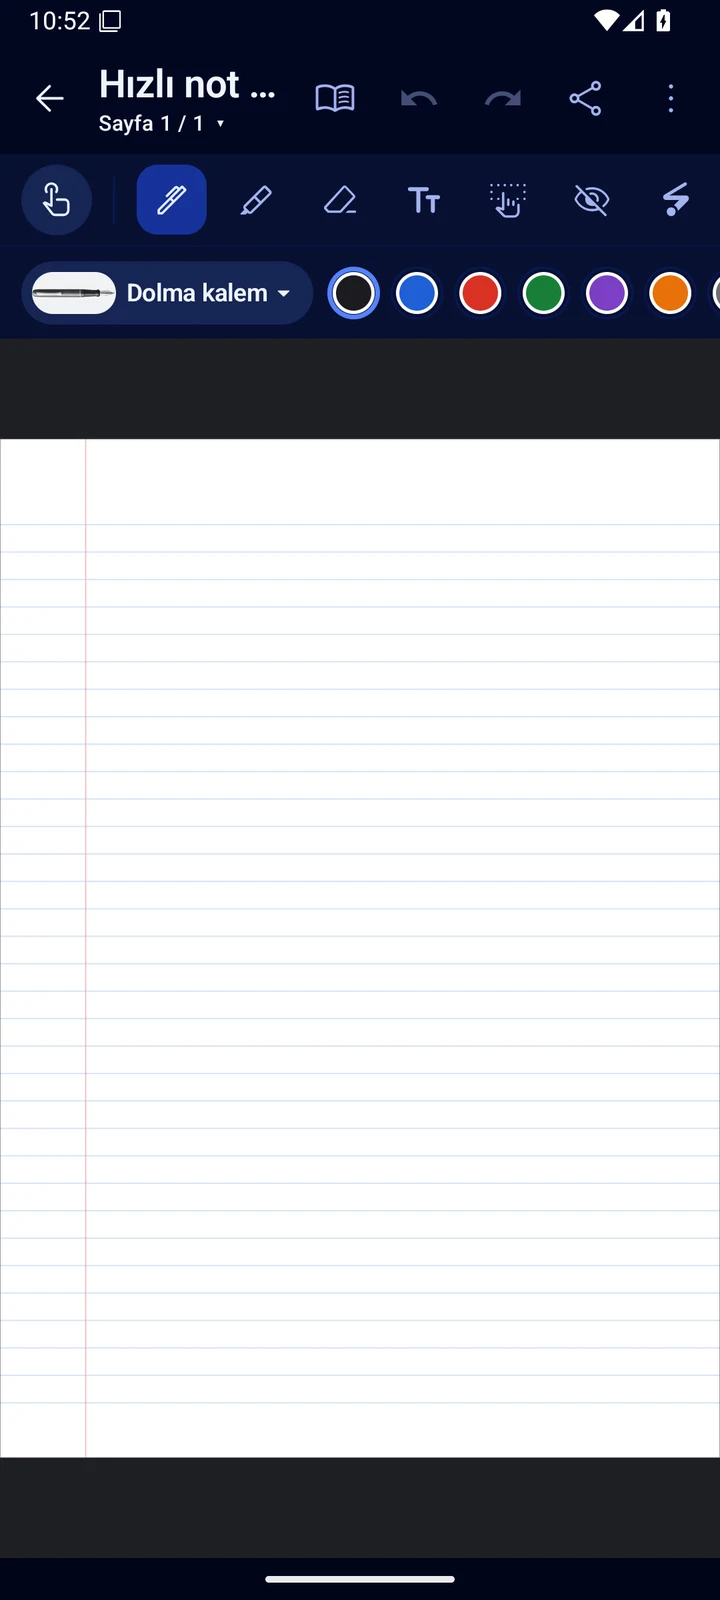
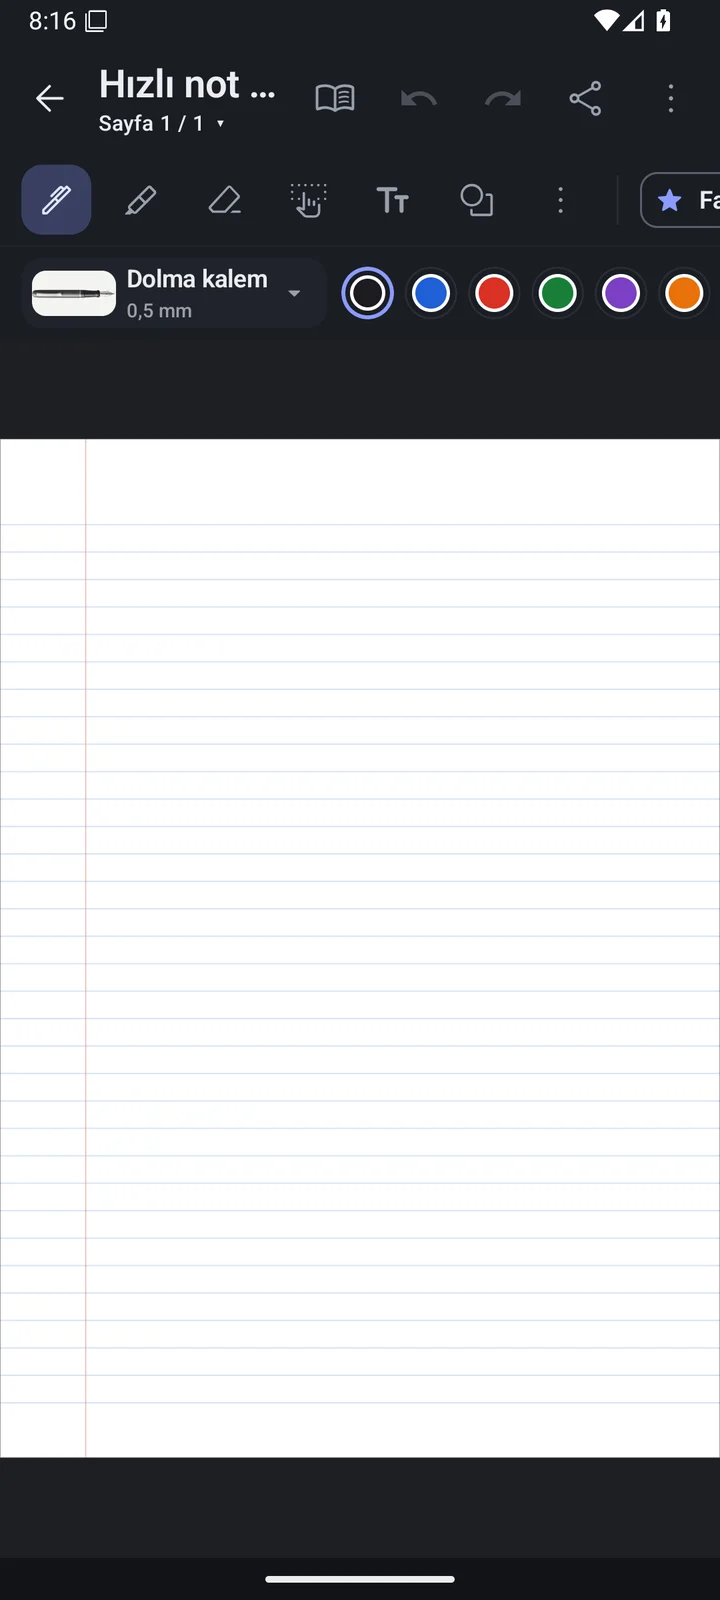
Sürüm 4.0: Yenilikler listesi, sürüm adı 4.0.N; site 4.0 ekran görüntüleri, test işaretleri kaldırıldı
Claude-Session: https://claude.ai/code/session_0112bPF4AJDG41dkAvYKYHDp

Changed region(s): [[0.0306, 0.0, 1.0, 0.2188], [0.0306, 0.0, 0.1833, 0.0312], [0.6722, 0.0312, 0.7333, 0.0938]]

diff --git a/docs/index.html b/docs/index.html
@@ -251,7 +251,7 @@
         <p class="feature__num">01</p>
         <h3>Kâğıt gibi yaz, PDF gibi sakla.</h3>
         <p>Ders PDF'lerini içe aktar ya da bir klasör bağla, üstüne basınca duyarlı kalemle yaz. Kalemin yoksa "Parmakla yaz"ı aç: tek parmak çizer, iki parmak kaydırır.</p>
-        <ul class="ticks"><li>14 kalem: dolma, jel, ince uç, keçeli, pastel, neon, noktalı, fırça, kaligrafi…; her kalem ayarını hatırlar</li><li>Yazma desteği el titremesini süzer; cetvel ve açıölçer</li><li>Çıkartmalar ve son kullanılan renkler</li><li>Katmanlar ve sonsuz tuval</li><li>Arkadaşının notlarını kendi belgene ayrı katman olarak birleştir</li><li>Kalem düğmesi: bas, kalem ile silgi arasında geç (Xiaomi Focus Pen, S Pen)</li><li>🧪 Hızlı kalem halkası: sayfada kalemle kıpırdatmadan basılı tut; kalem, fosforlu, silgi ve son renkler. Ayarlar → Not alma'dan kapatılır</li><li>Tablette iki belge yan yana: bir yanda ders PDF'i, öbür yanda defterin</li><li>🧪 Kayıtlı çalışma düzeni: belge ekranında ⋮ → "Çalışma düzenini kaydet"; belge + yan belge + dinleme kaydı, Bugün'de tek dokunuşla açılır</li><li>🧪 Not geçmişi: birkaç dakikada bir, sayfa başına 15 eski sürüm; belge ⋮ → Not geçmişi → Geri yükle (geri al ile vazgeç)</li><li>Fosforlu, silgi, lasso, şekil düzeltme, metin kutusu; notlu PDF olarak dışa aktar</li></ul>
+        <ul class="ticks"><li>14 kalem: dolma, jel, ince uç, keçeli, pastel, neon, noktalı, fırça, kaligrafi…; her kalem ayarını hatırlar</li><li>Yazma desteği el titremesini süzer; cetvel ve açıölçer</li><li>Çıkartmalar ve son kullanılan renkler</li><li>Katmanlar ve sonsuz tuval</li><li>Arkadaşının notlarını kendi belgene ayrı katman olarak birleştir</li><li>Kalem düğmesi: bas, kalem ile silgi arasında geç (Xiaomi Focus Pen, S Pen)</li><li>Hızlı kalem halkası: sayfada kalemle kıpırdatmadan basılı tut; kalem, fosforlu, silgi ve son renkler. Ayarlar → Not alma'dan kapatılır</li><li>Tablette iki belge yan yana: bir yanda ders PDF'i, öbür yanda defterin</li><li>Kayıtlı çalışma düzeni: belge ekranında ⋮ → "Çalışma düzenini kaydet"; belge + yan belge + dinleme kaydı, Bugün'de tek dokunuşla açılır</li><li>Not geçmişi: birkaç dakikada bir, sayfa başına 15 eski sürüm; belge ⋮ → Not geçmişi → Geri yükle (geri al ile vazgeç)</li><li>Fosforlu, silgi, lasso, şekil düzeltme, metin kutusu; notlu PDF olarak dışa aktar</li></ul>
       </div>
     </article>
 
@@ -262,7 +262,7 @@
         <p class="feature__num">02</p>
         <h3>Haftanın kaynakları, konu konu.</h3>
         <p>Grammar'dan Speaking'e bütün ders kaynakları konulara ve haftalara ayrılmış hâlde gelir. Yeni kaynak eklenince uygulama güncellemesi beklemeden listede görünür.</p>
-        <ul class="ticks"><li>Drive'a eklenen yeni hafta kendiliğinden gelir</li><li>PDF kaynağı tek dokunuşla kütüphaneye; haftanın hepsini birden indir, internetsiz aç</li><li>🧪 Bugün derste kartı: Bugün ekranında günün konuları ve PDF'leri (aç / indir / hepsini indir); ses kayıtları için Dinle</li><li>Konu ve ders ilerlemesi; asistanla ders özeti</li><li>Deneme sınavı: okulun sınav tarzında, denetlenmiş sorular</li><li>🧪 Deneme sınavı konu analizi: ders geneli testte her soru bir konuya bağlı; konu konu doğru/toplam, zayıf konu üstte. Konunun PDF'ini aç, o konudan alıştırma yap; puanlar konu haritasına yazılır</li><li>🧪 Kaynakta göster: ders metni varsa deneme soruları kısa kaynak alıntısıyla gelir; yanlış soruda PDF'te o cümlenin sayfasını aç</li><li>Alıştırma: önce cevapla, asistan değerlendirsin</li><li>Konu haritası: hangi konuda ne kadar hazırsın</li><li>Haftanın ve konunun özeti: asistan PDF'lerden tek sayfa çıkarır</li><li>Listening kayıtları uygulamada: hız, 5 sn geri sarma, dinlerken not; çalışma kâğıdını açınca ses sürer</li><li>🧪 Listening A–B bölüm tekrarı: A ve B'yi işaretle, bölüm tekrar tekrar çalsın; arada 0/2/4/8 sn bekleme</li><li>Word ve PowerPoint dosyaları başka uygulamada açılır, PDF olarak geri gelir</li><li>Çalış: deneme sınavı, alıştırma, yazı stüdyosu ve Speaking tek yerde</li><li>Sade arayüz: Bugün, Kütüphane, Çalış, Takvim</li></ul>
+        <ul class="ticks"><li>Drive'a eklenen yeni hafta kendiliğinden gelir</li><li>PDF kaynağı tek dokunuşla kütüphaneye; haftanın hepsini birden indir, internetsiz aç</li><li>Bugün derste kartı: Bugün ekranında günün konuları ve PDF'leri (aç / indir / hepsini indir); ses kayıtları için Dinle</li><li>Konu ve ders ilerlemesi; asistanla ders özeti</li><li>Deneme sınavı: okulun sınav tarzında, denetlenmiş sorular</li><li>Deneme sınavı konu analizi: ders geneli testte her soru bir konuya bağlı; konu konu doğru/toplam, zayıf konu üstte. Konunun PDF'ini aç, o konudan alıştırma yap; puanlar konu haritasına yazılır</li><li>Kaynakta göster: ders metni varsa deneme soruları kısa kaynak alıntısıyla gelir; yanlış soruda PDF'te o cümlenin sayfasını aç</li><li>Alıştırma: önce cevapla, asistan değerlendirsin</li><li>Konu haritası: hangi konuda ne kadar hazırsın</li><li>Haftanın ve konunun özeti: asistan PDF'lerden tek sayfa çıkarır</li><li>Listening kayıtları uygulamada: hız, 5 sn geri sarma, dinlerken not; çalışma kâğıdını açınca ses sürer</li><li>Listening A–B bölüm tekrarı: A ve B'yi işaretle, bölüm tekrar tekrar çalsın; arada 0/2/4/8 sn bekleme</li><li>Word ve PowerPoint dosyaları başka uygulamada açılır, PDF olarak geri gelir</li><li>Çalış: deneme sınavı, alıştırma, yazı stüdyosu ve Speaking tek yerde</li><li>Sade arayüz: Bugün, Kütüphane, Çalış, Takvim</li></ul>
       </div>
     </article>
 

diff --git a/site/index.html b/site/index.html
@@ -250,7 +250,7 @@
         <p class="feature__num">01</p>
         <h3>Kâğıt gibi yaz, PDF gibi sakla.</h3>
         <p>Ders PDF'lerini içe aktar ya da bir klasör bağla, üstüne basınca duyarlı kalemle yaz. Kalemin yoksa "Parmakla yaz"ı aç: tek parmak çizer, iki parmak kaydırır.</p>
-        <ul class="ticks"><li>14 kalem: dolma, jel, ince uç, keçeli, pastel, neon, noktalı, fırça, kaligrafi…; her kalem ayarını hatırlar</li><li>Yazma desteği el titremesini süzer; cetvel ve açıölçer</li><li>Çıkartmalar ve son kullanılan renkler</li><li>Katmanlar ve sonsuz tuval</li><li>Arkadaşının notlarını kendi belgene ayrı katman olarak birleştir</li><li>Kalem düğmesi: bas, kalem ile silgi arasında geç (Xiaomi Focus Pen, S Pen)</li><li>🧪 Hızlı kalem halkası: sayfada kalemle kıpırdatmadan basılı tut; kalem, fosforlu, silgi ve son renkler. Ayarlar → Not alma'dan kapatılır</li><li>Tablette iki belge yan yana: bir yanda ders PDF'i, öbür yanda defterin</li><li>🧪 Kayıtlı çalışma düzeni: belge ekranında ⋮ → "Çalışma düzenini kaydet"; belge + yan belge + dinleme kaydı, Bugün'de tek dokunuşla açılır</li><li>🧪 Not geçmişi: birkaç dakikada bir, sayfa başına 15 eski sürüm; belge ⋮ → Not geçmişi → Geri yükle (geri al ile vazgeç)</li><li>Fosforlu, silgi, lasso, şekil düzeltme, metin kutusu; notlu PDF olarak dışa aktar</li></ul>
+        <ul class="ticks"><li>14 kalem: dolma, jel, ince uç, keçeli, pastel, neon, noktalı, fırça, kaligrafi…; her kalem ayarını hatırlar</li><li>Yazma desteği el titremesini süzer; cetvel ve açıölçer</li><li>Çıkartmalar ve son kullanılan renkler</li><li>Katmanlar ve sonsuz tuval</li><li>Arkadaşının notlarını kendi belgene ayrı katman olarak birleştir</li><li>Kalem düğmesi: bas, kalem ile silgi arasında geç (Xiaomi Focus Pen, S Pen)</li><li>Hızlı kalem halkası: sayfada kalemle kıpırdatmadan basılı tut; kalem, fosforlu, silgi ve son renkler. Ayarlar → Not alma'dan kapatılır</li><li>Tablette iki belge yan yana: bir yanda ders PDF'i, öbür yanda defterin</li><li>Kayıtlı çalışma düzeni: belge ekranında ⋮ → "Çalışma düzenini kaydet"; belge + yan belge + dinleme kaydı, Bugün'de tek dokunuşla açılır</li><li>Not geçmişi: birkaç dakikada bir, sayfa başına 15 eski sürüm; belge ⋮ → Not geçmişi → Geri yükle (geri al ile vazgeç)</li><li>Fosforlu, silgi, lasso, şekil düzeltme, metin kutusu; notlu PDF olarak dışa aktar</li></ul>
       </div>
     </article>
 
@@ -261,7 +261,7 @@
         <p class="feature__num">02</p>
         <h3>Haftanın kaynakları, konu konu.</h3>
         <p>Grammar'dan Speaking'e bütün ders kaynakları konulara ve haftalara ayrılmış hâlde gelir. Yeni kaynak eklenince uygulama güncellemesi beklemeden listede görünür.</p>
-        <ul class="ticks"><li>Drive'a eklenen yeni hafta kendiliğinden gelir</li><li>PDF kaynağı tek dokunuşla kütüphaneye; haftanın hepsini birden indir, internetsiz aç</li><li>🧪 Bugün derste kartı: Bugün ekranında günün konuları ve PDF'leri (aç / indir / hepsini indir); ses kayıtları için Dinle</li><li>Konu ve ders ilerlemesi; asistanla ders özeti</li><li>Deneme sınavı: okulun sınav tarzında, denetlenmiş sorular</li><li>🧪 Deneme sınavı konu analizi: ders geneli testte her soru bir konuya bağlı; konu konu doğru/toplam, zayıf konu üstte. Konunun PDF'ini aç, o konudan alıştırma yap; puanlar konu haritasına yazılır</li><li>🧪 Kaynakta göster: ders metni varsa deneme soruları kısa kaynak alıntısıyla gelir; yanlış soruda PDF'te o cümlenin sayfasını aç</li><li>Alıştırma: önce cevapla, asistan değerlendirsin</li><li>Konu haritası: hangi konuda ne kadar hazırsın</li><li>Haftanın ve konunun özeti: asistan PDF'lerden tek sayfa çıkarır</li><li>Listening kayıtları uygulamada: hız, 5 sn geri sarma, dinlerken not; çalışma kâğıdını açınca ses sürer</li><li>🧪 Listening A–B bölüm tekrarı: A ve B'yi işaretle, bölüm tekrar tekrar çalsın; arada 0/2/4/8 sn bekleme</li><li>Word ve PowerPoint dosyaları başka uygulamada açılır, PDF olarak geri gelir</li><li>Çalış: deneme sınavı, alıştırma, yazı stüdyosu ve Speaking tek yerde</li><li>Sade arayüz: Bugün, Kütüphane, Çalış, Takvim</li></ul>
+        <ul class="ticks"><li>Drive'a eklenen yeni hafta kendiliğinden gelir</li><li>PDF kaynağı tek dokunuşla kütüphaneye; haftanın hepsini birden indir, internetsiz aç</li><li>Bugün derste kartı: Bugün ekranında günün konuları ve PDF'leri (aç / indir / hepsini indir); ses kayıtları için Dinle</li><li>Konu ve ders ilerlemesi; asistanla ders özeti</li><li>Deneme sınavı: okulun sınav tarzında, denetlenmiş sorular</li><li>Deneme sınavı konu analizi: ders geneli testte her soru bir konuya bağlı; konu konu doğru/toplam, zayıf konu üstte. Konunun PDF'ini aç, o konudan alıştırma yap; puanlar konu haritasına yazılır</li><li>Kaynakta göster: ders metni varsa deneme soruları kısa kaynak alıntısıyla gelir; yanlış soruda PDF'te o cümlenin sayfasını aç</li><li>Alıştırma: önce cevapla, asistan değerlendirsin</li><li>Konu haritası: hangi konuda ne kadar hazırsın</li><li>Haftanın ve konunun özeti: asistan PDF'lerden tek sayfa çıkarır</li><li>Listening kayıtları uygulamada: hız, 5 sn geri sarma, dinlerken not; çalışma kâğıdını açınca ses sürer</li><li>Listening A–B bölüm tekrarı: A ve B'yi işaretle, bölüm tekrar tekrar çalsın; arada 0/2/4/8 sn bekleme</li><li>Word ve PowerPoint dosyaları başka uygulamada açılır, PDF olarak geri gelir</li><li>Çalış: deneme sınavı, alıştırma, yazı stüdyosu ve Speaking tek yerde</li><li>Sade arayüz: Bugün, Kütüphane, Çalış, Takvim</li></ul>
       </div>
     </article>
 

diff --git a/app/src/main/java/com/sounote/app/ui/UpdateDialogs.kt b/app/src/main/java/com/sounote/app/ui/UpdateDialogs.kt
@@ -28,19 +28,15 @@ import com.sounote.app.data.Updates
 
 /** Son ana sürümle gelenler ("Yenilikler" penceresi; eski sürümden güncelleyen bir kez görür). */
 private val WHATS_NEW = listOf(
-    SouIcons.Palette to "Baştan sade tasarım: logodaki lacivert ve mavi-mor tonlar, emoji yerine simgeler.",
-    SouIcons.InkPen to "14 kalem: ince uç, keçeli, pastel, jel, neon, noktalı, geniş uç, mürekkep fırçası…; her kalem kendi ayarını hatırlar.",
-    SouIcons.Draw to "Yazma desteği: el titremesini süzer, çizgileri yumuşak ve bağlantılı yapar.",
-    SouIcons.Straighten to "Cetvel ve açıölçer: kenarına yakın çizgi kenara oturur.",
-    SouIcons.Style to "Yeni bilgi kartı ekranı: dokun çevir, sağa bildim, sola bilemedim.",
-    SouIcons.StarShine to "Asistanla ders özeti: dersin bütün PDF'lerinden özet, kelimeler, sorular.",
-    SouIcons.LibraryBooks to "Defter kapakları; haftalık plan, kelime defteri ve renkli Cornell şablonları.",
-    SouIcons.Widgets to "Yeni sınav widget'ı ve tablette iki sütunlu ana sayfa.",
-    SouIcons.Event to "Sınav öncesi plan ve deneme sınavı: asistan gün gün plan ve konulardan test hazırlar.",
-    SouIcons.Mood to "Çıkartmalar; renk paleti son kullandığın renkleri hatırlar.",
-    SouIcons.Layers to "Katmanlar ve sonsuz tuval.",
-    SouIcons.Mic to "Speaking pratiği: konuş, asistan puanlasın.",
-    SouIcons.AccountTree to "Konu haritası: hangi konuda ne kadar hazırsın.",
+    SouIcons.Palette to "Yeni sade arayüz ve yeni logo: dört sekme (Bugün, Kütüphane, Çalış, Takvim), açık ve koyu tema.",
+    SouIcons.Event to "Takvim: her sınavın türü simgesiyle (quiz, writing, speaking, sunum, listening, ödev).",
+    SouIcons.InkPen to "Yeni kalem menüsü ve hızlı menü: sayfaya basılı tut; araçlar, favoriler, gökkuşağından renk, kalınlık.",
+    SouIcons.History to "Not geçmişi: sayfanın önceki hâline dön.",
+    SouIcons.Quiz to "Daha iyi deneme sınavı: denetlenmiş sorular, konu konu analiz, yanlış soruda kaynakta göster.",
+    SouIcons.Headphones to "Listening A–B tekrarı: bir bölümü işaretle, arada beklemeyle tekrar tekrar çalsın.",
+    SouIcons.School to "Bugün derste kartı: günün konuları ve PDF'leri tek yerde.",
+    SouIcons.Bookmarks to "Çalışma düzenini kaydet: belge, yan belge ve dinleme kaydı tek dokunuşla açılır.",
+    SouIcons.Widgets to "Widget'lar da yeni sade görünümde.",
 )
 
 /** Yeni sürüm ve "Yenilikler" pencereleri (ana ekranda). */

diff --git a/app/src/main/java/com/sounote/app/LibraryViewModel.kt b/app/src/main/java/com/sounote/app/LibraryViewModel.kt
@@ -2598,7 +2598,7 @@ class LibraryViewModel(app: Application) : AndroidViewModel(app) {
         private const val AUTO_BACKUP_INTERVAL_MS = 20L * 60 * 60 * 1000
         const val TRASH_DAYS = 30
         /** "Yenilikler" penceresinin ana sürümü: 2.0'a güncelleyen kullanıcı bir kez görür. */
-        const val MAJOR = 3
+        const val MAJOR = 4
         const val LOCK_AFTER_MS = 60_000L
         /** Belgede bu kadar çalışılan gün seriye sayılır. */
         private const val STREAK_MIN_STUDY = 5L * 60 * 1000

diff --git a/README.md b/README.md
@@ -30,10 +30,10 @@
 |---|---|
 | 🎨 **Görünüm (4.0)** | Sade, düz arayüz: kâğıt tonu açık tema ve kömür grisi koyu tema, tek vurgu rengi (6 tema), parıltı ve degrade yok; dört bölüm: Bugün, Kütüphane, Çalış, Takvim (tablette sol menü, altta Asistan ve Ayarlar; telefonda alt çubuk); her öğede simge |
 | 🏠 **Ana sayfa** | Bölümleri sırala ya da gizle; favoriler ve sabitlenenlerle hızlı erişim; son kullanılanları tek tek kaldır ya da temizle (dosyalar silinmez) |
-| 🧪 **Bugün derste kartı** | Bugün ekranında o günün konuları ve PDF'leri: aç / indir / hepsini indir; ses kayıtları için Dinle |
-| ✍ **Kalem** | 14 kalem (dolma, jel, ince uç, keçeli, pastel, neon, noktalı, fırça, kaligrafi…), her kalem ayarını hatırlar; yazma desteği (titreme süzme), cetvel ve açıölçer, çıkartmalar, son kullanılan renkler, katmanlar (gizle/göster, sıra), sonsuz tuval; fosforlu, silgi, şekil düzeltme, lasso, metin kutusu, resim, avuç içi engelleme; 🧪 Hızlı kalem halkası: kalemle sayfada kıpırdatmadan basılı tut, kalem, fosforlu, silgi ve son renkler halkası açılsın (Ayarlar → Not alma'dan kapatılır) |
-| 📄 **PDF** | Okuma modu, lasso ile seçilen bölgeyi asistana sor, tablette yan yana not; içe aktar ya da klasör bağla, yakınlaşınca net çizim, form doldurma, PDF içinde arama, notlu PDF olarak dışa aktar; 🧪 Kayıtlı çalışma düzeni: belge ekranında ⋮ → "Çalışma düzenini kaydet" ile belge + yan belge + dinleme kaydını sakla, Bugün ekranında tek dokunuşla aç |
-| 🧪 **Not geçmişi** | Sayfa notlarının eski sürümleri birkaç dakikada bir saklanır (sayfa başına 15); belge ekranı ⋮ → Not geçmişi → Geri yükle; geri al ile vazgeçilir |
+| **Bugün derste kartı** | Bugün ekranında o günün konuları ve PDF'leri: aç / indir / hepsini indir; ses kayıtları için Dinle |
+| ✍ **Kalem** | 14 kalem (dolma, jel, ince uç, keçeli, pastel, neon, noktalı, fırça, kaligrafi…), her kalem ayarını hatırlar; yazma desteği (titreme süzme), cetvel ve açıölçer, çıkartmalar, son kullanılan renkler, katmanlar (gizle/göster, sıra), sonsuz tuval; fosforlu, silgi, şekil düzeltme, lasso, metin kutusu, resim, avuç içi engelleme; Hızlı kalem halkası: kalemle sayfada kıpırdatmadan basılı tut, kalem, fosforlu, silgi ve son renkler halkası açılsın (Ayarlar → Not alma'dan kapatılır) |
+| 📄 **PDF** | Okuma modu, lasso ile seçilen bölgeyi asistana sor, tablette yan yana not; içe aktar ya da klasör bağla, yakınlaşınca net çizim, form doldurma, PDF içinde arama, notlu PDF olarak dışa aktar; Kayıtlı çalışma düzeni: belge ekranında ⋮ → "Çalışma düzenini kaydet" ile belge + yan belge + dinleme kaydını sakla, Bugün ekranında tek dokunuşla aç |
+| **Not geçmişi** | Sayfa notlarının eski sürümleri birkaç dakikada bir saklanır (sayfa başına 15); belge ekranı ⋮ → Not geçmişi → Geri yükle; geri al ile vazgeçilir |
 | 📚 **Dersler** | Drive'daki ders klasörüne eklenen yeni hafta ve dosyalar uygulamaya kendiliğinden gelir ("Yeni gelenler"); haftalık kaynaklar konu ve hafta hafta; Word/PowerPoint dosyaları WPS/Office'te açılır, PDF olarak SouNote'a paylaşılır; bitirdiklerini işaretle, haftanın ilerlemesini gör |
 | 📅 **Takvim** | Her sınavın türü simgeyle (sınav, Writing, Speaking, sunum, Listening, ödev, kur atlama); liste, hafta, ay ve zaman çizelgesi; ödev tamamlama, öncelik, filtreler, hatırlatıcılar, ana ekran widget'ları (sıradaki sınav, bugün, hafta listesi, hızlı işlemler); asistanla sınav öncesi gün gün çalışma planı |
 | 🧠 **Asistan soruları** | Deneme sınavı ve alıştırmalar okulun sınav tarzında; aynı şıklar ve tekrar eden sorular ayıklanır, her soru ikinci kez çözülüp denetlenir, doğru cevap şıklara dağılır; ağır işlerde en güçlü model |
@@ -45,7 +45,7 @@
 | 🔥 **Çalışma serisi** | Art arda çalıştığın günler; belgede 5 dk, kart tekrarı, Writing, haftalık liste ya da yazılı not o günü sayar |
 | 🗺 **Konu haritası** | Dersin konuları tek ekranda; kaynak ilerlemesi ve deneme puanına göre başlanmadı / çalışılıyor / hazır |
 | 🎤 **Speaking pratiği** | Konu seç, hazırlan, konuş; cihaz konuşmanı yazıya döker, asistan L4 ölçütleriyle puanlar, örnek cevap verir |
-| 🎧 **Listening pratiği** | Ders kayıtları uygulamada çalar: 0,75×–1,5× hız, 5 sn geri/ileri, tekrarla, kaldığın yer; dinlerken zaman damgalı not, asistanla alıştırma; çalışma kâğıdını dinlerken aç, ses üstteki çubukta sürer; 🧪 A–B bölüm tekrarı: A ve B'yi işaretle, bölüm tekrar tekrar çalsın; tekrarlar arası 0/2/4/8 sn bekleme |
+| 🎧 **Listening pratiği** | Ders kayıtları uygulamada çalar: 0,75×–1,5× hız, 5 sn geri/ileri, tekrarla, kaldığın yer; dinlerken zaman damgalı not, asistanla alıştırma; çalışma kâğıdını dinlerken aç, ses üstteki çubukta sürer; A–B bölüm tekrarı: A ve B'yi işaretle, bölüm tekrar tekrar çalsın; tekrarlar arası 0/2/4/8 sn bekleme |
 | 📥 **Haftayı toplu indir** | Dersler → Haftalar'da "Hepsini indir": haftanın bütün PDF'leri kütüphanene iner, internetsiz açılır; kütüphanedeki kaynaklar listede işaretli |
 | 🎯 **Sınav günü kartı** | Sınavdan önceki gün ana sayfada: sınava giren konular, PDF'leri (hepsini indir), deneme sınavı ve kart tekrarı |
 | 🤝 **Not birleştirme** | Arkadaşından gelen .sounote paketindeki belge sende de varsa notları kendi notlarına ayrı bir katman olarak eklenir; seninkilere dokunulmaz |
@@ -54,8 +54,8 @@
 | 🧠 **Model seçimi** | Asistan Gelişmiş ayarlarında Evren modelleri: Otomatik, Önerilen, DeepSeek, GLM, Qwen… düğmeleri |
 | 🪟 **Yan yana belge** | Tablette ikinci bir belgeyi yanda aç: solda defterine yaz, sağda ders PDF'ini oku |
 | 📝 **Alıştırma** | Asistan konudan, açık belgeden ya da nottan alıştırma hazırlar (çoktan seçmeli, boşluk doldurma, yeniden yazma, açık uçlu); cevabı dokununca göster ya da önce cevapla, asistan değerlendirsin |
-| 🧪 **Deneme sınavı** | Dersin konularından asistan çoktan seçmeli test hazırlar (5/10/20 soru); sonuç ve yanlışların açıklaması; 🧪 Konu analizi: ders geneli testte her soru bir konuya bağlanır; sonuçta konu konu doğru/toplam, zayıf konu üstte; konunun PDF'ini aç, o konudan alıştırma yap; konu puanları konu haritasına yazılır |
-| 🧪 **Kaynakta göster** | Ders metni varsa deneme sınavı soruları dayandıkları kısa alıntıyla gelir; yanlış soruda PDF'te o cümlenin sayfasını aç |
+| **Deneme sınavı** | Dersin konularından asistan çoktan seçmeli test hazırlar (5/10/20 soru); sonuç ve yanlışların açıklaması; Konu analizi: ders geneli testte her soru bir konuya bağlanır; sonuçta konu konu doğru/toplam, zayıf konu üstte; konunun PDF'ini aç, o konudan alıştırma yap; konu puanları konu haritasına yazılır |
+| **Kaynakta göster** | Ders metni varsa deneme sınavı soruları dayandıkları kısa alıntıyla gelir; yanlış soruda PDF'te o cümlenin sayfasını aç |
 | 🔁 **Bugünkü tekrar** | Bütün belgelerde zamanı gelen bilgi kartları tek oturumda |
 | 📊 **Not ortalaması** | Puanlarını gir, geçmek için kalan sınavlardan kaç alman gerektiğini gör |
 | 📝 **Yazılı notlar** | Klavyeyle ya da kalemle yazma, yapılacaklar, çizim alanı |

diff --git a/CLAUDE.md b/CLAUDE.md
@@ -179,7 +179,7 @@ Drive'da gizli "SouNote yedekleri" (1YKfOGh3d6faxq5gPuW2wRTm897sBuhSG) klasörü
   gizli katman çizilmez/dışa aktarılmaz; sadece çizgiler, yazı/resim katmansız).
 - Sonsuz tuval: PaperSize.CANVAS 4800×4800 pt tek sayfa; PdfDocumentView canvasMode (genişlik ≥ CANVAS_MIN_PT): A4 ölçeğinde yerleşir,
   minZoom tamamını gösterir, kaldığın yer prefs canvasView_<id>.
-- Ana sayfa: tablette (≥900dp) iki sütun. versionName 3.0.<run>, MAJOR = 3.
+- Ana sayfa: tablette (≥900dp) iki sütun. versionName 3.0.<run>, MAJOR = 3 (4.0'dan beri versionName 4.0.<run>, MAJOR = 4).
 - 3.0.1 (🧪, build-127+): kalemler yeniden yazıldı. Kullanıcı (ekran görüntüsü): uçlarda kocaman damla, ortada ince, boncuklu çizgi.
   Neden: basınç katsayısı 0.35–1.6 (çok geniş) + kalınlık 12 kademeye bölünüp her kademe ayrı yuvarlak uçlu yol. Şimdi ink/StrokeOutline.kt:
   basınçlı dolma/jel, fırça, kaligrafi tek parça doldurulan dış hat (yakın noktalar atılır, basınç ileri-geri yumuşatılır, penFactor 0.62–1.38,
@@ -234,7 +234,7 @@ Site yenilendi (🧪): kaynak site/ (Vite + TS + Three.js, çerçevesiz), `cd si
 çizim ve bilgi kartı denemeleri, kalite katmanları, WebGL'siz statik görünüm. Logo: "A. Dengeli" (site/brand-src, make_logo.py).
 Test: `cd site && npm test` (Playwright, /SouNote/ alt yolu). Ayrıntı: site/README.md. build.yml site/** değişikliğinde APK derlemez.
 
-## SouNote 4.0 arayüzü (🧪, build-171+; 13 Kasım)
+## SouNote 4.0 (yayın: 14 Kasım; arayüz build-171+, 13 Kasım)
 Kullanıcı: eski arayüz karışık, "AI slop" (parıltı, cam, açıklama yazıları). Onaylanan maket: scratchpad mock/ (HTML, açık kâğıt tonu).
 - Theme.kt: darkSchemeOf/lightSchemeOf düz nötr yüzeyler (açık #F6F6F3 zemin, beyaz yüzey, #E5E5E0 çizgi; koyu #111318/#1A1D24), tema sadece vurgu
   (ELECTRIC açıkta #3346D3, koyuda #8C9BFF). Components: card() = surface + 1dp outlineVariant, 14dp; souBackground() düz zemin. hero tek renk.
